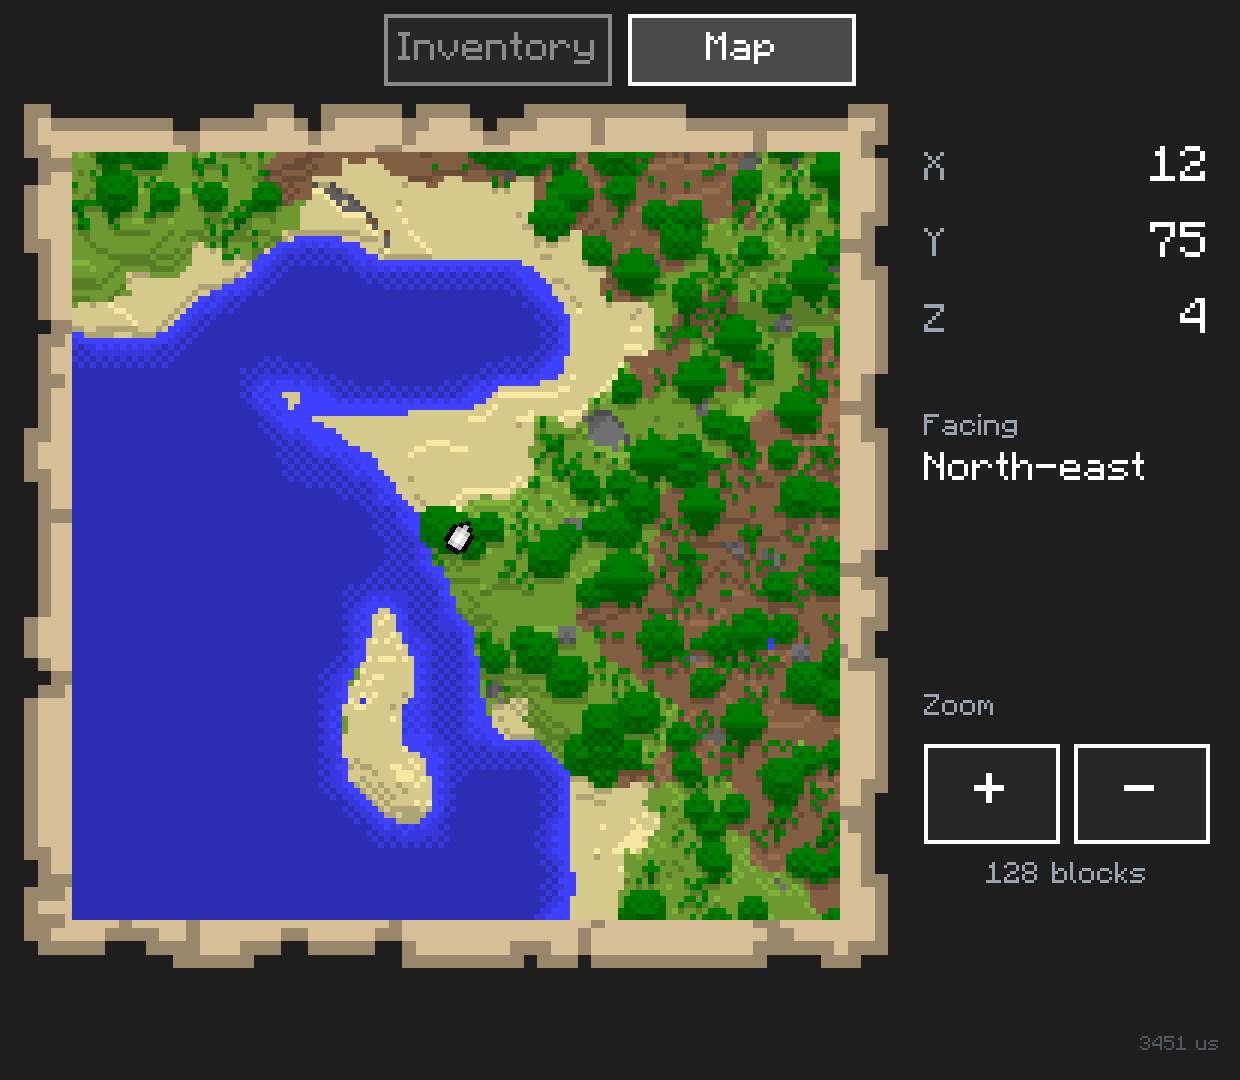
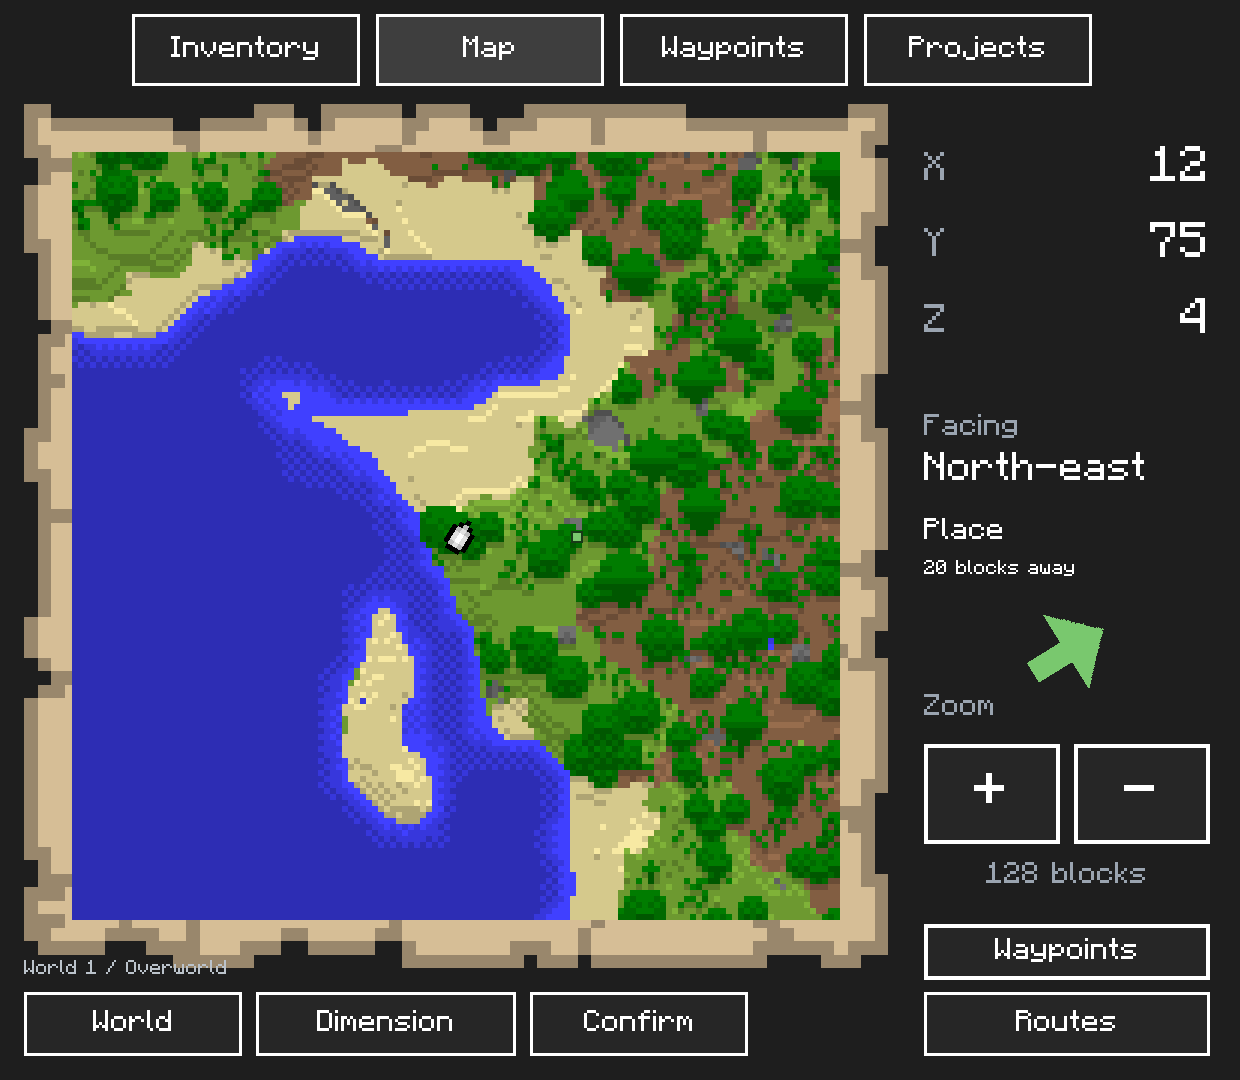
Integrate companion features with shared tabs, world setup and live validation

diff --git a/tests/test_manifest.py b/tests/test_manifest.py
@@ -1,0 +1,79 @@
+"""Check that feature controls remain reachable when their manifests are combined."""
+
+import json
+import unittest
+from pathlib import Path
+
+
+MANIFEST = Path(__file__).resolve().parents[1] / "package/dualscreen/manifest.json"
+
+
+def widgets(value):
+    if isinstance(value, dict):
+        yield value
+        for child in value.values():
+            yield from widgets(child)
+    elif isinstance(value, list):
+        for child in value:
+            yield from widgets(child)
+
+
+class ManifestTests(unittest.TestCase):
+    @classmethod
+    def setUpClass(cls):
+        cls.manifest = json.loads(MANIFEST.read_text())
+
+    def test_every_control_and_page_action_has_a_target(self):
+        actions = self.manifest["actions"]
+        pages = [page["id"] for page in self.manifest["pages"]]
+        self.assertEqual(len(pages), len(set(pages)), "duplicate page ID")
+        for name, action in actions.items():
+            with self.subTest(action=name):
+                if action["kind"] == "page":
+                    self.assertIn(action["page"], pages)
+        for widget in widgets(self.manifest["pages"]):
+            for name, action in widget.items():
+                if name.startswith("on_") and isinstance(action, str):
+                    with self.subTest(control=name, action=action):
+                        self.assertIn(action, actions)
+
+    def test_features_are_reachable_from_inventory(self):
+        actions = self.manifest["actions"]
+        pages = {page["id"]: page for page in self.manifest["pages"]}
+        seen, pending = set(), ["inventory"]
+        while pending:
+            page = pending.pop()
+            if page in seen:
+                continue
+            seen.add(page)
+            for widget in widgets(pages[page]):
+                for name, target in widget.items():
+                    if name.startswith("on_") and isinstance(target, str) and target in actions:
+                        action = actions[target]
+                        if action["kind"] == "page":
+                            pending.append(action["page"])
+        self.assertTrue({"inventory", "map", "waypoints", "projects"}.issubset(seen), seen)
+
+    def test_feature_tabs_have_separate_touch_areas(self):
+        actions = self.manifest["actions"]
+        for page in self.manifest["pages"]:
+            tabs = [widget for widget in page["widgets"]
+                    if widget.get("on_tap") in actions
+                    and actions[widget["on_tap"]]["kind"] == "page"
+                    and widget.get("rect", [0, 999])[1] < 100]
+            self.assertEqual(len(tabs), 4, page["id"])
+            targets = {actions[tab["on_tap"]]["page"] for tab in tabs}
+            self.assertEqual(targets, {"inventory", "map", "waypoints", "projects"})
+            for index, tab in enumerate(tabs):
+                x, y, width, height = tab["rect"]
+                self.assertGreater(width, 0)
+                self.assertGreater(height, 0)
+                self.assertLessEqual(x + width, self.manifest["canvas_w"])
+                for other in tabs[index + 1:]:
+                    ox, oy, ow, oh = other["rect"]
+                    overlap = x < ox + ow and ox < x + width and y < oy + oh and oy < y + height
+                    self.assertFalse(overlap, f"overlapping tabs on {page['id']}")
+
+
+if __name__ == "__main__":
+    unittest.main()

diff --git a/tests/test_configure.py b/tests/test_configure.py
@@ -32,7 +32,8 @@ class ConfigureTests(unittest.TestCase):
     def test_invalid_inputs_leave_manifest_unchanged(self):
         before = self.manifest.read_bytes()
         for worlds, directory in [([""], None), (["x", "x"], None), (["x\n"], None),
-                                   (["é" * 65], None), (["x"], "relative")]:
+                                   (["é" * 65], None), (["x"], "relative"),
+                                   (["x"], "/directory\0suffix"), ([str(i) for i in range(33)], None)]:
             with self.subTest(worlds=worlds, directory=directory):
                 with self.assertRaises(ValueError):
                     configure(self.manifest, worlds, "overworld", directory)

diff --git a/scripts/configure_companion.py b/scripts/configure_companion.py
@@ -32,7 +32,7 @@ def configure(manifest: Path, worlds: list[str], dimension: str,
     if len(set(worlds)) != len(worlds):
         raise ValueError("world names must be unique")
     if data_directory is not None:
-        if not PurePosixPath(data_directory).is_absolute():
+        if '\0' in data_directory or not PurePosixPath(data_directory).is_absolute():
             raise ValueError("data directory must be an absolute path on the device running Eden")
         config["data_directory"] = data_directory
     config["world_keys"] = worlds

diff --git a/README.md b/README.md
@@ -4,7 +4,7 @@
 
 **[Download the latest release](https://github.com/erikvanhoolst/minecraft-companion/releases/latest)** · [Download the installation package directly](https://github.com/erikvanhoolst/minecraft-companion/releases/latest/download/0100D71004694000.dsmod.zip)
 
-This companion app for [Eden Duo](https://github.com/igawa6/eden-duo) displays your Minecraft inventory and a map on the second screen. Eden Duo is a Nintendo Switch emulator for Android handhelds with two screens, such as the AYN Thor. While you keep playing on the top screen, the bottom screen shows what you are carrying, your character's status, and where you are.
+This companion app for [Eden Duo](https://github.com/igawa6/eden-duo) displays your Minecraft inventory, map, waypoints, and build projects on the second screen. Eden Duo is a Nintendo Switch emulator for Android handhelds with two screens, such as the AYN Thor. While you keep playing on the top screen, the bottom screen shows what you are carrying, your character's status, and where you are.
 
 Eden Duo loads the app as a companion package (`.dsmod.zip`). A small C++ module reads data from the running game's memory, and a JSON manifest defines the layout on the bottom screen. Normal use only displays information and does not modify your inventory or world.
 
@@ -16,7 +16,11 @@ The installation package contains no Minecraft game files. Icons, HUD sprites, t
 |---|---|
 | ![Inventory showing item stacks and counts, player status, and the selected Birch Wood item](assets/screenshots/inventory-with-items.png) | ![Map tab showing terrain, the player marker, coordinates, heading, and zoom controls](assets/screenshots/map.png) |
 
-Captured from Minecraft 1.2.12 running in Eden Duo's desktop test environment. The inventory screenshot shows an earlier layout, before the tab buttons were added.
+| Waypoints tab | Projects tab |
+|---|---|
+| ![Waypoints with a selected destination, direction arrow and distance](assets/screenshots/waypoints.png) | ![Projects listing 128 cobblestone, 32 oak planks and 16 glass](assets/screenshots/projects.png) |
+
+Captured from Minecraft 1.2.12 running in Eden Duo's desktop test environment. The inventory screenshot shows an earlier layout, before the tab buttons were added. The other screenshots use isolated companion test data; the distant Place waypoint was imported to check the arrow without changing the game's position.
 
 ## Features
 
@@ -52,18 +56,47 @@ These values are available for Minecraft **1.2.12**. If a value cannot be read r
 
 The **Map** tab shows a top-down view of the terrain around your character:
 
-- **Moving map:** the map follows your position and uses the chunks Minecraft has loaded into memory. North is at the top.
+- **Moving map:** the map follows your position. North is at the top. Discovered terrain and earlier routes remain visible after their chunks unload, with separate history for each confirmed world and dimension.
 - **In-game map colors:** each block uses its own map color, with lighter and darker shades for height differences and water depth.
 - **Player marker:** the marker on the map paper rotates to match the direction you are facing.
 - **Coordinates:** X, Y, and Z appear beside the map. Y is measured at your feet, matching Minecraft's coordinate display.
 - **Heading:** the app shows one of eight compass directions, such as north, east, or southwest. On-screen labels are in English.
 - **Zoom:** tap **+** to zoom in and **−** to zoom out. The map covers 64 × 64, 128 × 128, or 256 × 256 blocks; the default is 128 × 128.
 
-The map is rendered only while its tab is visible. Moving and zooming request a new image; while you stand still, the map also refreshes periodically, approximately once per second at 60 updates per second. The previous image remains in the background while the new map loads.
+A background worker records terrain even while another tab is open. Moving and zooming request a new image; while you stand still, the map refreshes approximately once per second at 60 updates per second. **Routes** toggles the gold trace of your earlier routes. History saves every five seconds and on normal shutdown. The previous image remains in the background while the new map loads.
+
+On **Map**, choose a **World** preset and **Dimension**, then tap **Confirm**. Assign a different preset to each save. The package includes World 1, World 2 and World 3; custom names and more presets can be configured with the helper below. Confirm again after loading a world, and choose the destination dimension when using a portal. Automatic save and dimension identification is unavailable because the game memory offsets have not been verified. See [exploration history](docs/features/exploration.md) for storage limits and setup.
+
+### Waypoints
+
+Open **Waypoints** and tap **Base**, **Village**, **Mine** or **Place** to mark your current position. Select a saved row to navigate there. The arrow points relative to the direction you face, with horizontal distance in blocks and a separate height difference. The selected destination also appears on Map. **Stop** ends navigation; **Delete** removes the selected waypoint.
+
+Waypoints and active destinations are stored separately per confirmed world and dimension. Up to 64 markers are supported per map; repeated labels receive numbers. See [waypoint controls and storage](docs/features/waypoints.md).
+
+### Build projects
+
+Open **Projects**, create a list, and add building materials from the picker or your held hotbar item. Tap a row and adjust its required quantity with **±1**, **±16** and **±64**. For example, track 128 cobblestone, 32 oak planks and 16 glass.
+
+The app totals all 36 inventory slots and shows what remains to collect, keeping item variants separate. Unreadable inventory shows unknown counts. You can create eight projects with up to 24 materials each. Lists save on each edit. Names use presets because the current runtime has no keyboard input; custom names can be edited in the saved JSON. See [build project controls](docs/features/build-projects.md).
+
+### Persistent storage and world names
+
+Linux defaults to `$XDG_DATA_HOME/minecraft-companion`, or `$HOME/.local/share/minecraft-companion`. Android requires an absolute directory writable by Eden, such as `/sdcard/Android/data/dev.igawa6.edenduo/files/dualscreen/user/0100D71004694000/companion`. Without a writable directory, the app keeps changes for the session and displays its storage status.
+
+The runtime passes the installed `dualscreen/manifest.json` to the native module. Configure that manifest after installation, then reload the module or restart Minecraft:
+
+```sh
+python3 scripts/configure_companion.py \
+  --manifest "$HOME/.local/share/eden/load/0100D71004694000/Minecraft/dualscreen/manifest.json" \
+  --world "Survival" --world "Creative" \
+  --data-directory "$HOME/.local/share/minecraft-companion"
+```
+
+For Android, edit a local copy of the installed manifest with the device's absolute storage path, then copy it back. `scripts/thor.sh install` configures that path automatically. Configuration belongs to the installed copy and must be restored after reinstalling the package. Companion files contain markers, lists, terrain colors and routes; they do not modify Minecraft saves.
 
 ### Controls and status messages
 
-Tap **Inventory** or **Map** at the top to switch tabs. You can also swipe left on the inventory page to open the map, or swipe right on the map page to return.
+Tap **Inventory**, **Map**, **Waypoints** or **Projects** at the top to switch tabs. You can also swipe left on the inventory page to open the map, or swipe right on the map page to return.
 
 Until a valid inventory has been read, the app displays **Waiting for a world** with a diagnostic message. This may take a moment while a world is loading. The map page displays **No map yet** when map data is not yet available.
 
@@ -71,7 +104,7 @@ Until a valid inventory has been read, the app displays **Waiting for a world** 
 
 - The inventory is a display only: moving items, selecting a hotbar slot by touch, managing chests, and crafting are not supported.
 - The offhand slot is not shown. Equipment and durability are unavailable for the experimental 1.26.13 layout.
-- The map shows loaded terrain around the player, without saved exploration history or custom markers. It is not a cave map.
+- The map is a surface map, with remembered terrain only in areas the companion observed. It is not a cave map. World and dimension selection requires manual confirmation; presets must match the actual save.
 - The map is implemented only for Minecraft 1.2.12. Nether behavior has not been tested; the current heightmap may show the roof there.
 - Item icons come from the game's vanilla resource packs. Items from custom packs may therefore have no icon.
 
@@ -90,7 +123,7 @@ Use Eden Duo **1.1.0 with runtime 18 or later**. The module accepts only the ful
 2. In Eden Duo, long-press Minecraft and choose **Add-ons → Install → Dual screen mods**. Select the ZIP file.
 3. Disable the Minecraft update in **Add-ons** to use the tested 1.2.12 base game.
 4. Launch Minecraft and open a world. The bottom screen first displays **Waiting for a world**, then your inventory.
-5. Open **Map** to see the map, coordinates, and heading.
+5. Open **Map**, choose the matching world preset and dimension, and tap **Confirm** to record exploration and enable **Waypoints**. Use **Projects** for material lists. Configure writable storage on Android as described above.
 
 ## Building
 
@@ -119,7 +152,7 @@ Game files, emulator keys such as `prod.keys` and `title.keys`, passwords, and a
 
 | Directory | Contents |
 |---|---|
-| `native/` | The C++ module: memory reader (`mc_reader`), map (`mc_map`), icons and font (`mc_assets`, `mc_zip`), item names (`mc_names`), and research console (`mc_debug`). Also includes the required ABI headers and third-party libraries. |
+| `native/` | The C++ module: memory reader (`mc_reader`), map and saved exploration (`mc_map`, `mc_exploration`), waypoints (`mc_waypoints`), build projects (`mc_projects`), icons and font (`mc_assets`, `mc_zip`), item names (`mc_names`), and research console (`mc_debug`). Also includes the required ABI headers and third-party libraries. |
 | `package/` | `package.json`, `dualscreen/manifest.json` (bottom-screen pages), and `dualscreen/mc_font.txt` (a reference to the game's font) |
 | `scripts/` | Building, installation, and testing on desktop and the Thor |
 | `research/` | Analysis scripts for the game executable and resource packs |

diff --git a/docs/TOOLS.md b/docs/TOOLS.md
@@ -22,6 +22,28 @@ All scripts read their machine-specific paths from `local.env` (copy `local.env.
 
 After `scripts/build.sh` and `scripts/install_desktop.sh`, `scripts/mc.sh cmd reload` loads the new module into the running game.
 
+## Companion feature setup and checks
+
+The installed manifest's top-level fields configure world presets and storage. Use
+`scripts/configure_companion.py --manifest <installed-manifest> --world Survival --world Creative
+--data-directory <absolute-directory>`, then reload the module. On Map, select the actual save
+preset and dimension and press Confirm. The package supplies three default World presets.
+`scripts/thor.sh install` supplies the writable Android companion directory automatically;
+installation through Eden's ZIP importer requires configuring that path separately.
+
+Run `ctest --test-dir build/linux --output-on-failure` for inventory, waypoint, project and
+exploration fixtures, and `python3 -m unittest discover -s tests` for packaging, configuration
+and manifest navigation checks. `scripts/verify_release.py dist/0100D71004694000.dsmod.zip`
+checks both platform modules and the complete installation archive.
+
+Desktop validation covers four-tab touch navigation, waypoint creation, the direction arrow,
+the 128 cobblestone / 32 oak planks / 16 glass example, route toggling, background capture,
+world/dimension confirmation and persistence after module reload. Use an isolated
+`data_directory` when validating so fixture markers and lists stay out of normal companion data.
+Fixtures also exercise unloaded terrain, stale worker results, inventory variants and unknown
+counts. The Android module is cross-compiled and package-validated; handheld runtime validation
+of these new features remains separate.
+
 ## Research console in the module
 
 `native/mc_debug.cpp` reads commands from `user:mcdbg.txt` (`<Eden data>/dualscreen/user/0100D71004694000/mcdbg.txt`) whenever the file changes, and writes `mcdbg:` lines to the Eden log. It works on the handheld too (`scripts/thor.sh dbg "inv"`, then `scripts/thor.sh mcdbg`).

diff --git a/docs/features/exploration.md b/docs/features/exploration.md
@@ -17,6 +17,9 @@ Configure the installed `dualscreen/manifest.json` with these optional top-level
 }
 ```
 
+The distributed manifest includes `World 1`, `World 2` and `World 3` presets. Assign each preset
+to a different actual save, or replace them with stable names using `scripts/configure_companion.py`.
+
 World keys are stable, case-sensitive names you choose for your saves. Use different keys for
 different saves, even if they share the same displayed Minecraft name. Up to 32 unique presets,
 with up to 128 UTF-8 bytes per key, are supported. `world_key` selects the initial preset; the
@@ -63,4 +66,6 @@ when the map generation changes, preventing another world or zoom from reappeari
 Validation: Linux build, CTest reader and exploration fixtures, and Python package tests. Fixtures
 cover negative coordinates, unloaded chunks, routes, scope isolation, reload and checksum failure,
 symlink refusal, bounded history, explicit identity confirmation, scope switches during a render,
-and background capture without an asset-load callback. Live game/Android validation remains needed.
+and background capture without an asset-load callback. Combined desktop validation also checks
+background capture, route toggling, identity confirmation and reload; Android handheld validation
+remains separate from the successful cross-compilation and archive checks.
